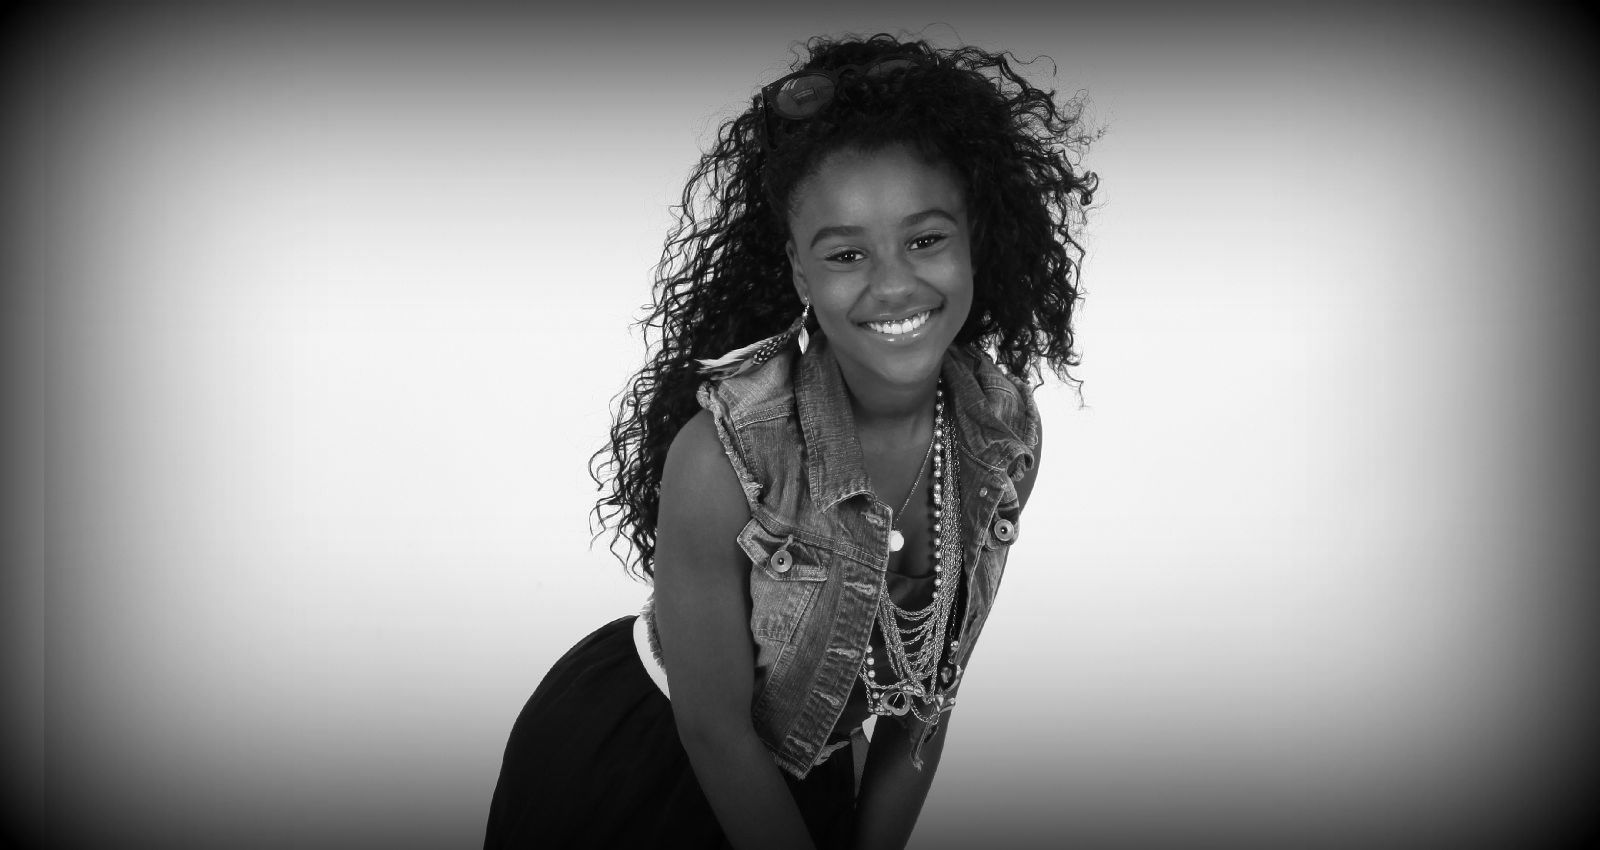
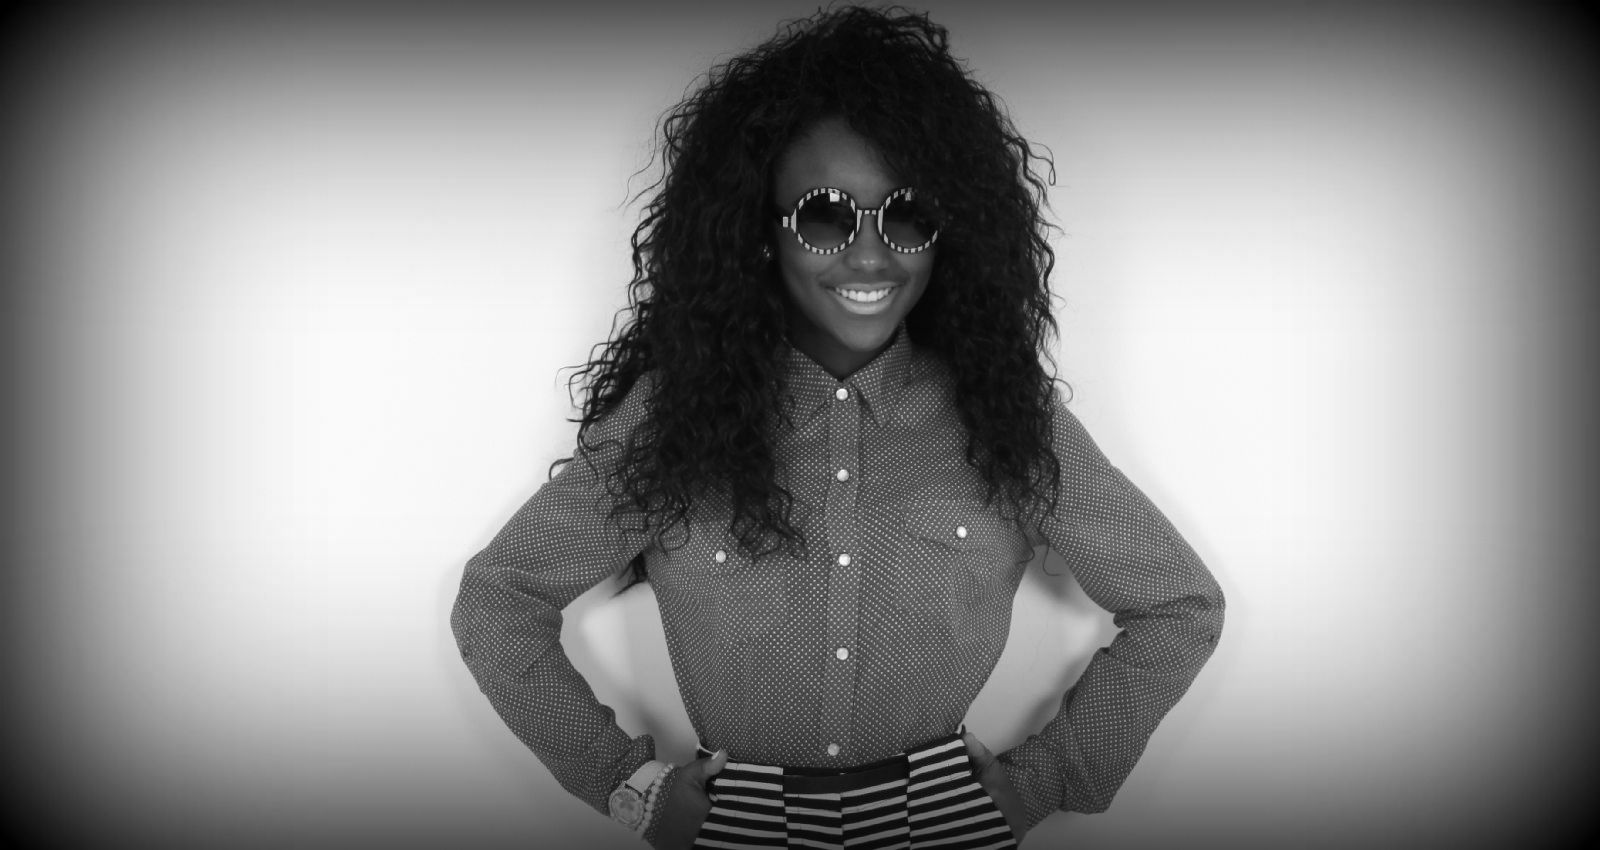
made changes to photos for front slider

Changed region(s): [[0.2812, 0.0, 0.7812, 1.0]]

diff --git a/README.md b/README.md
@@ -1,2 +1,4 @@
 # nailah-web
 Nailah website 2.0
+Using the Evento Theme
+
